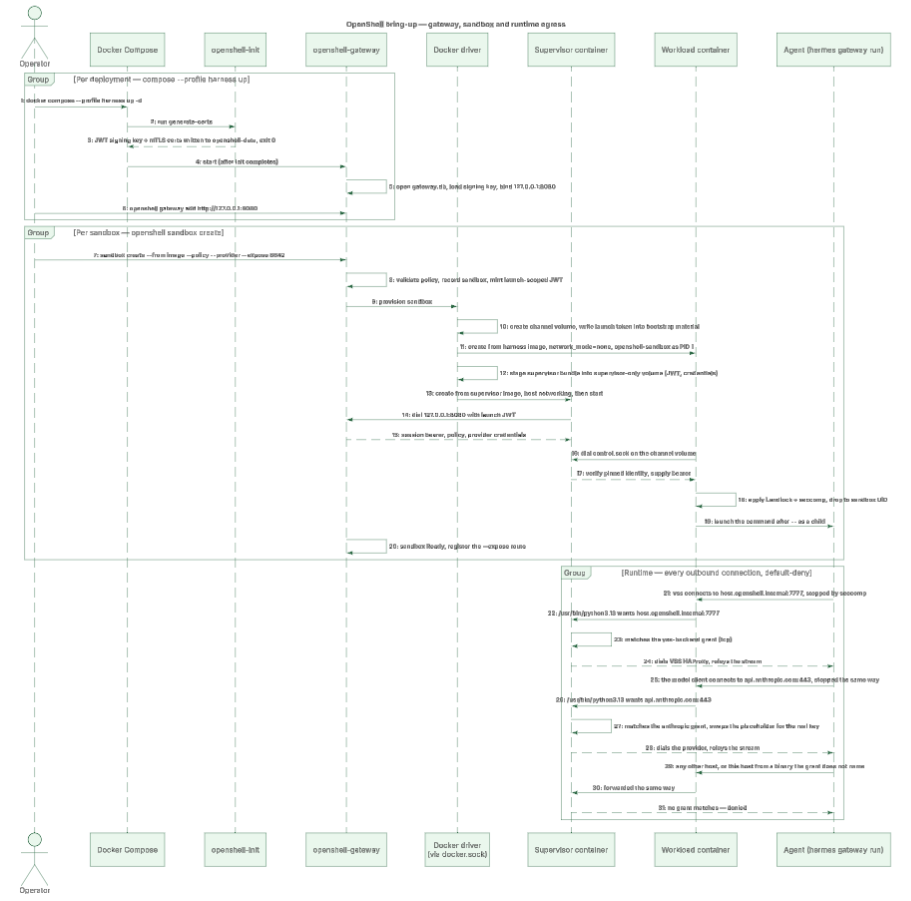
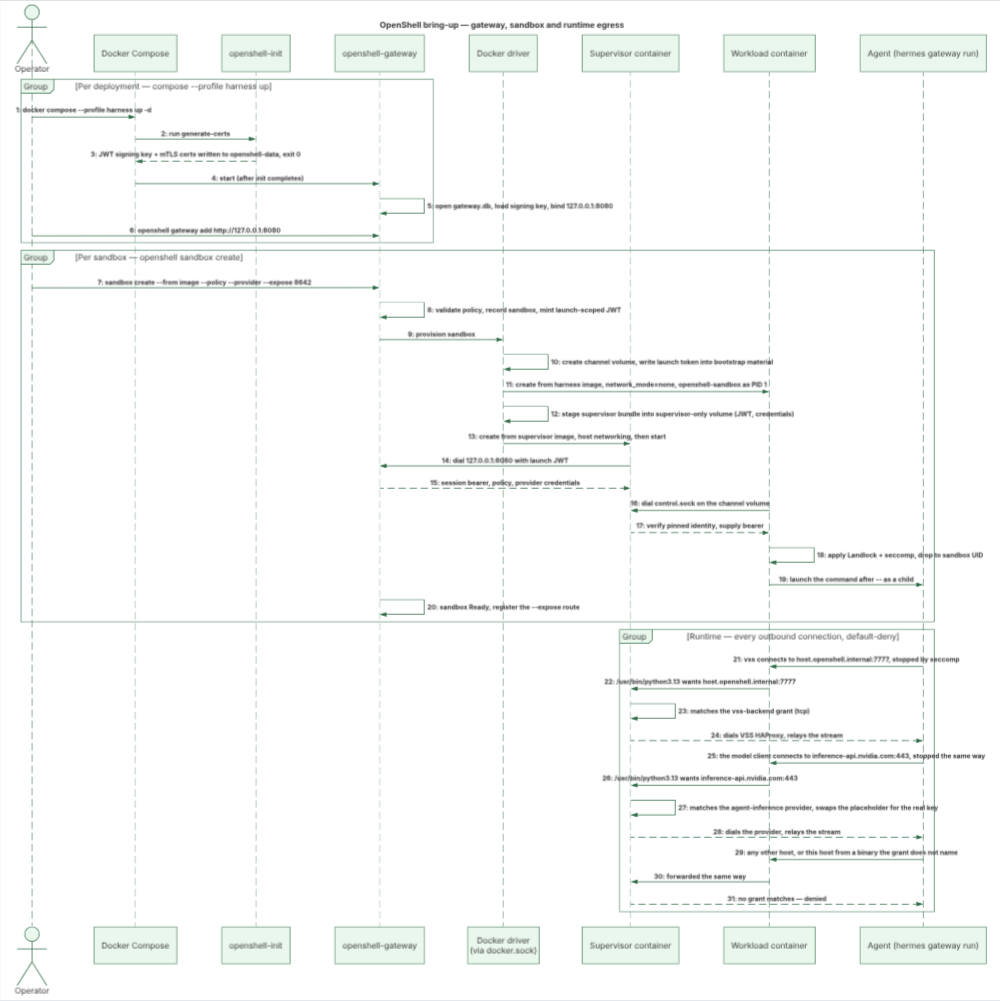
Drop the unused Anthropic grant from the Hermes policies
Nothing calls api.anthropic.com: inference goes to the host the provider
profile authorizes, so the grant was an uncredentialed egress path the
harness never used, and the docs presented it as the model endpoint.

- Remove it from both policies and both boundaries.
- Describe the policy as the package hosts, with the model host coming
  from the provider; redraw deploy-sequence steps 25-27 to match.

diff --git a/services/openshell/README.md b/services/openshell/README.md
@@ -683,8 +683,8 @@ YAML, then verify the result rather than eyeballing it.
 
 There are two candidate/ceiling pairs, because a sandbox takes a single
 `--policy` file and the VSS grant cannot be an overlay on one.
-`.hermes/policy.yaml` is the default: the agent's own model endpoint and the
-package hosts. `vss/policy.yaml` is that file plus `vss-backend` and `ngc`,
+`.hermes/policy.yaml` is the default: the package hosts; the inference
+provider's profile authorizes the model host. `vss/policy.yaml` is that file plus `vss-backend` and `ngc`,
 and is what the [VSS layer](#optional--add-vss-capabilities) creates against.
 Everything before `network_policies` is identical in the two, by requirement
 rather than convention — the prover compares those sections verbatim.
@@ -701,22 +701,23 @@ filesystem_policy:
 landlock: { compatibility: best_effort }
 process:  { run_as_user: "998", run_as_group: "999" }   # `sandbox` in the image
 network_policies:
-  anthropic:                     # .hermes/policy.yaml and vss/policy.yaml
-    name: anthropic
+  pypi:                          # .hermes/policy.yaml and vss/policy.yaml
+    name: pypi
     endpoints:
-      - host: api.anthropic.com
+      - host: pypi.org
         port: 443
         protocol: rest
         enforcement: enforce     # audit-mode REST is `unsupported`, not a pass
         rules:
-          - allow: { method: POST, path: "/v1/**" }
+          - allow: { method: GET, path: "/**" }
+      # ... files.pythonhosted.org and pypi.nvidia.com the same way
     binaries: [{ path: /usr/bin/python3.13 }]
   vss-backend:                   # vss/policy.yaml only
     name: vss-backend-readwrite
     endpoints:
       - { host: host.openshell.internal, port: 7777, protocol: tcp }
     binaries: [{ path: /usr/bin/python3.13 }]
-  # ... pypi and github in both, ngc in vss/policy.yaml
+  # ... github in both, ngc in vss/policy.yaml
 ```
 
 **`binaries` must name the interpreter, not the launcher.** OpenShell matches a
@@ -737,8 +738,8 @@ address for `host.openshell.internal`, so the `172.17.0.0/16`-style grants
 match nothing.
 
 Each candidate has its own ceiling, written once by hand. Same paths and same
-binaries, deliberately wider where it matters — every method on Anthropic
-rather than `POST /v1/**`:
+binaries, deliberately wider where it matters — every method on each host
+rather than `GET /**`:
 
 ```yaml
 version: 1
@@ -751,13 +752,14 @@ network_policies:
   harness-rest-max:              # .hermes/boundary.yaml and vss/boundary.yaml
     name: harness-rest-max
     endpoints:
-      - host: api.anthropic.com
+      - host: pypi.org
         port: 443
         protocol: rest
         enforcement: enforce
         rules:
           - allow: { method: GET,  path: "/**" }
           - allow: { method: POST, path: "/**" }
+      # ... and the policy's other REST hosts the same way
     binaries: [{ path: /usr/bin/python3.13 }]
   vss-backend-max:               # vss/boundary.yaml only. L4 only; mixing
     name: vss-backend-max        # REST in here is `unsupported`

diff --git a/.hermes/README.md b/.hermes/README.md
@@ -59,7 +59,8 @@ values are not known at build time:
 
 `policy.yaml` is baked to `/etc/openshell/policy.yaml`, so one artifact carries
 the harness and the access boundary it was proven against. It grants the
-agent's own model endpoint and the package hosts, and nothing else.
+package hosts and nothing else; the inference provider's profile authorizes
+the model host.
 
 ```
 openshell-prover check .hermes/policy.yaml --boundary .hermes/boundary.yaml
